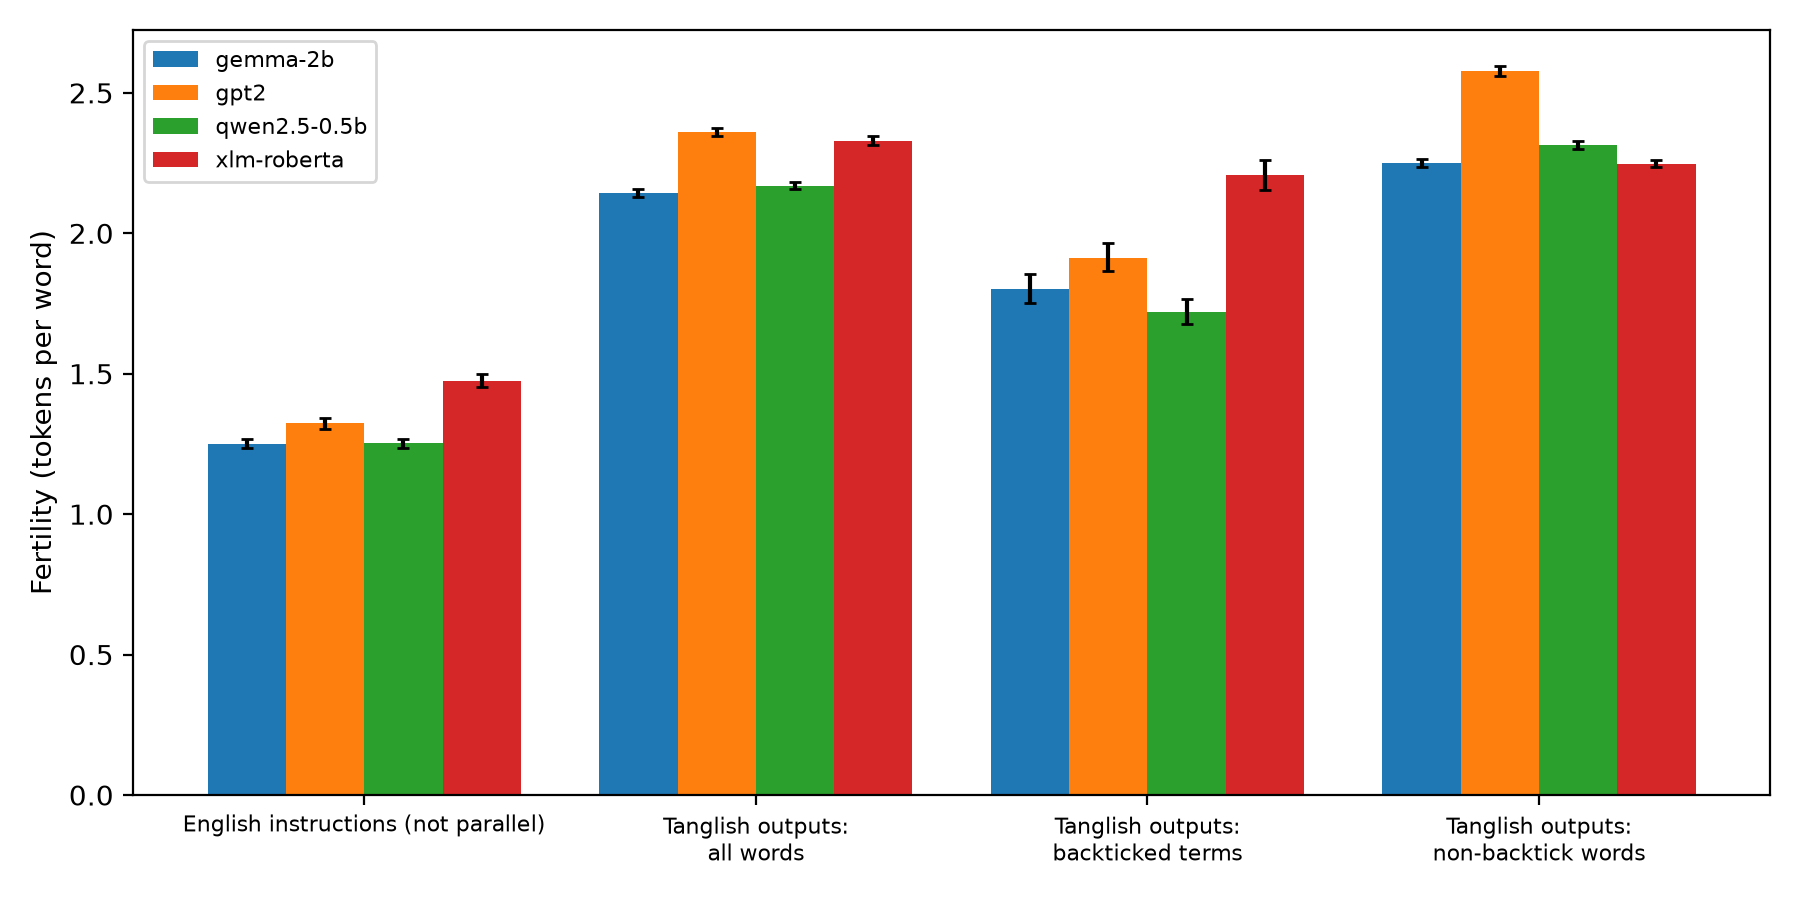
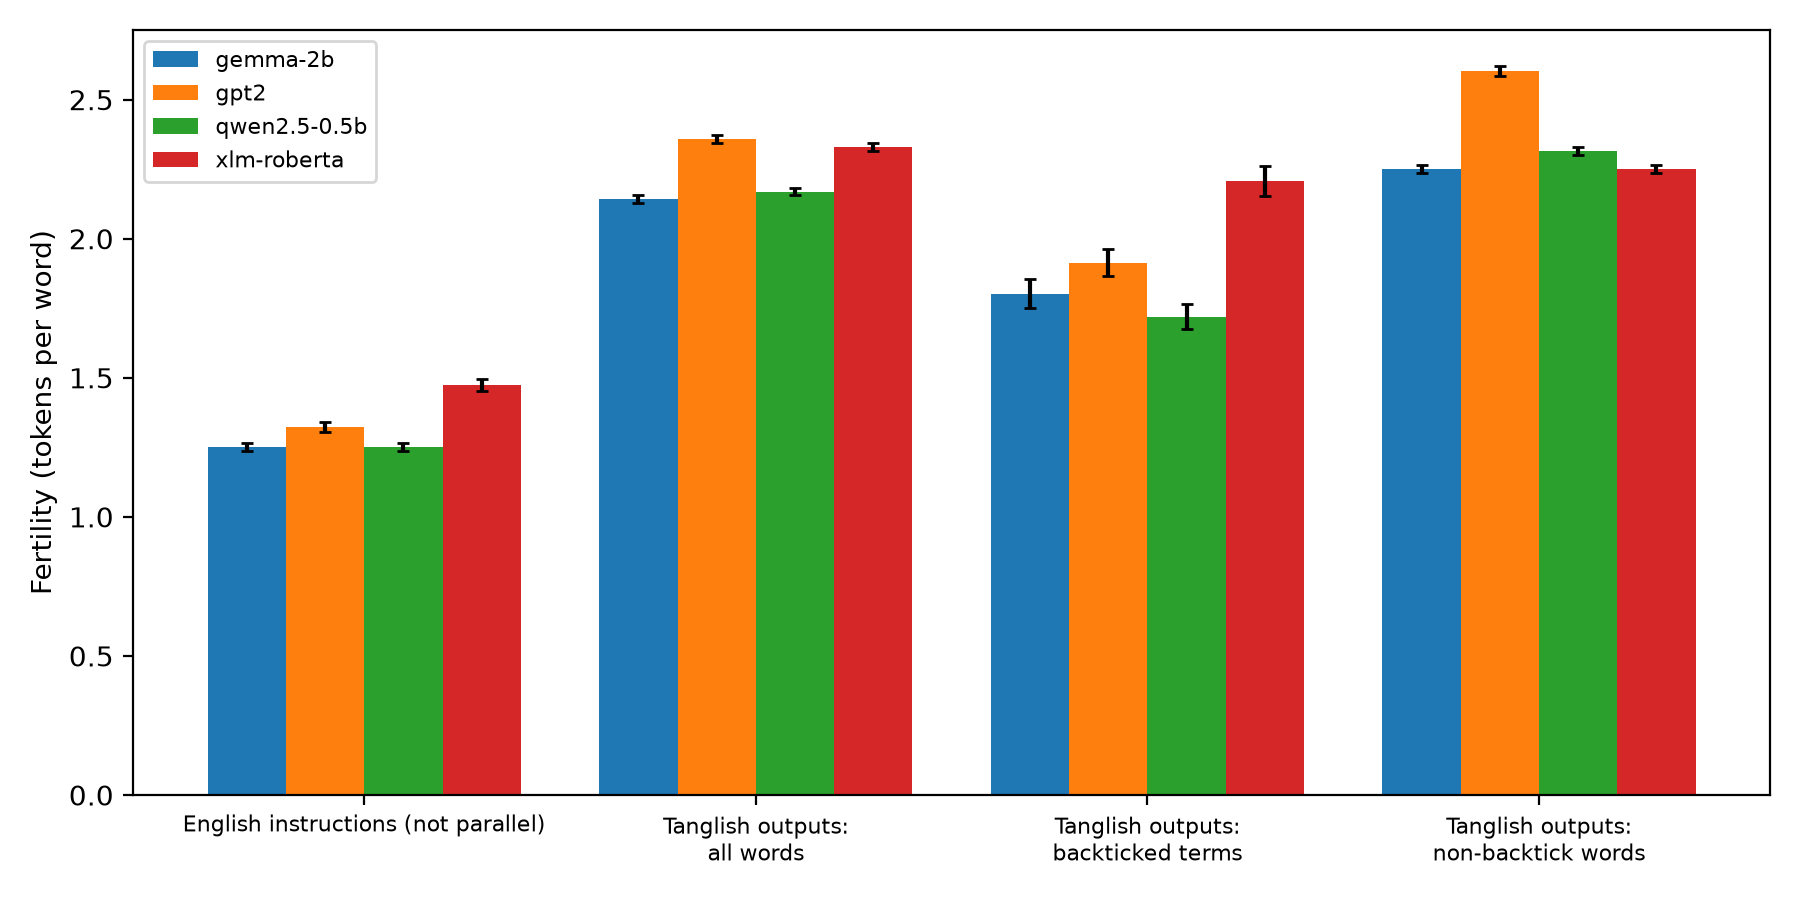
feat: fertility

diff --git a/results/tab_fertility_partA.tex b/results/tab_fertility_partA.tex
@@ -9,7 +9,7 @@ text_type &  &  &  &  \\
 English instructions (not parallel) & 1.250000 & 1.320000 & 1.250000 & 1.480000 \\
 Tanglish outputs: all words & 2.140000 & 2.360000 & 2.170000 & 2.330000 \\
 Tanglish outputs: backticked terms & 1.800000 & 1.910000 & 1.720000 & 2.210000 \\
-Tanglish outputs: non-backtick words & 2.250000 & 2.580000 & 2.310000 & 2.250000 \\
+Tanglish outputs: non-backtick words & 2.250000 & 2.600000 & 2.320000 & 2.250000 \\
 \bottomrule
 \end{tabular}
 \end{table}
